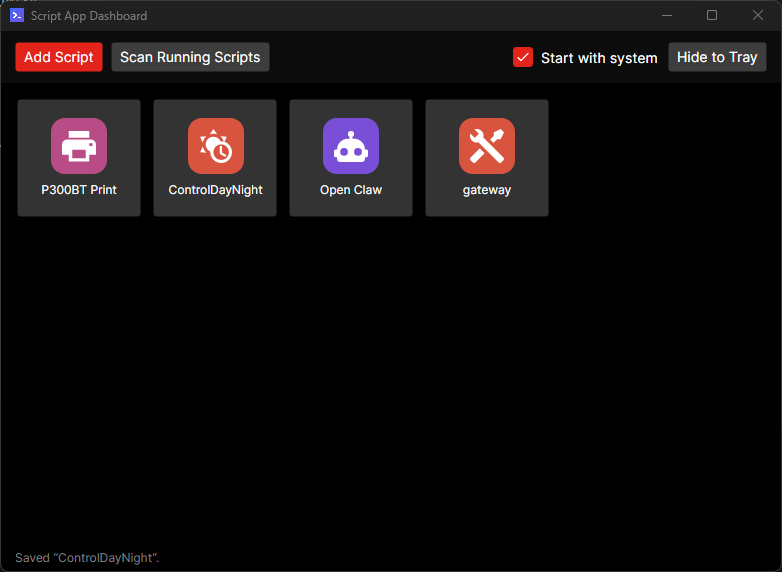
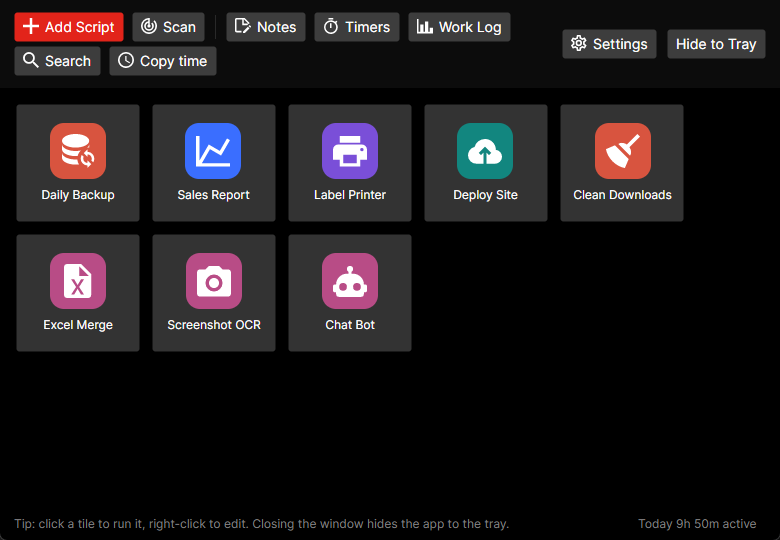
Update README with screenshots of every feature; allow a custom data folder
- README: sections and fresh screenshots for the visual note editor, interval
  timers and pop-ups, work log, combined search and timestamp settings, plus
  download instructions and where data is stored.
- SCRIPTAPPDASHBOARD_DATA environment variable overrides the data folder
  (tests, demos, portable use).
- CLAUDE.md: visual editor architecture and gotchas, demo-data testing.
- Notes button tooltip no longer says "HTML note".

diff --git a/Services/ConfigService.cs b/Services/ConfigService.cs
@@ -9,9 +9,11 @@ public static class ConfigService
 {
     private static readonly JsonSerializerOptions JsonOptions = new() { WriteIndented = true };
 
-    public static string ConfigDir => Path.Combine(
-        Environment.GetFolderPath(Environment.SpecialFolder.ApplicationData),
-        "ScriptAppDashboard");
+    /// <summary>Where config, notes and the work log live. SCRIPTAPPDASHBOARD_DATA overrides it (tests, demos, portable use).</summary>
+    public static string ConfigDir =>
+        Environment.GetEnvironmentVariable("SCRIPTAPPDASHBOARD_DATA") is { Length: > 0 } custom
+            ? custom
+            : Path.Combine(Environment.GetFolderPath(Environment.SpecialFolder.ApplicationData), "ScriptAppDashboard");
 
     private static string ConfigFile => Path.Combine(ConfigDir, "config.json");
 

diff --git a/README.md b/README.md
@@ -1,26 +1,91 @@
 # Script App Dashboard
 
-A small cross-platform (Windows / macOS) desktop launcher for all your Python tools, shell scripts and utilities — so you never have to hunt for the right folder again. Built with .NET 8 and Avalonia UI.
-
-## Screenshots
-
-**Dashboard — every script is a clickable tile:**
+A small cross-platform (Windows / macOS) desktop app for the people who live in scripts. It launches all your Python tools, shell scripts and utilities from one dashboard, and it also keeps quick notes, runs interval timers and logs where your working time goes. Built with .NET 8 and Avalonia UI.
 
 ![Script App Dashboard main window](docs/images/screenshotApp.png)
 
-**Scan Running Scripts — pick up tools that are already running and add them with one click:**
+## Features
+
+### Dashboard
+
+- **Tile dashboard:** every script is a clickable tile. Click to run; right-click to Run, Edit, Open Containing Folder or Remove.
+- **Custom icon, path and parameters:** each tile has a name, script path, command-line parameters, working directory and an optional icon. Pick one of 7,000+ searchable **Material Design Icons** (Apache 2.0, via the MIT-licensed `Material.Icons.Avalonia` package) or use your own .png / .jpg / .ico. Without an icon, a coloured initials tile is generated.
+- **Interpreter support:** detected from the extension (`.py`, `.ps1`, `.sh`, `.js`, `.bat`/`.cmd`, `.exe`). You can also pick one explicitly, including a *custom command* such as a venv's `python.exe -u`.
+- **Scan running scripts and apps:** finds scripts that are already running (python, node, powershell, bash, …) and open apps, and adds them to the dashboard with one click, parameters included.
+- **Hide to tray:** closing the window hides the app to the system tray or menu bar. The tray menu lists your scripts, so you can launch them without opening the window.
+- **Start with the system:** one checkbox registers auto-start. It uses the `HKCU\...\Run` registry key on Windows and a `~/Library/LaunchAgents` plist on macOS. The app starts hidden in the tray (`--minimized`).
+- **Keep console open:** an optional per-script setting. It wraps the run in `cmd /k` on Windows, or a Terminal `.command` file on macOS, so you can read the output after the script finishes.
 
 ![Scan running scripts window](docs/images/screenshotScanRunningScripts.png)
 
-## Features
+### Notes with a visual editor
 
-- **Tile dashboard** — every script is a clickable tile. Click to run, right-click to Run / Edit / Open Containing Folder / Remove.
-- **Custom icon, path & parameters** — each tile has a name, script path, command-line parameters, working directory and an optional icon: pick one from the built-in **Material Design Icons** library (7,000+ searchable icons, Apache 2.0, via the MIT-licensed `Material.Icons.Avalonia` package) or use your own image file (.png / .jpg / .ico). Without an icon, a colored initials tile is generated.
-- **Interpreter support** — auto-detects from the extension (`.py`, `.ps1`, `.sh`, `.js`, `.bat`/`.cmd`, `.exe`), or pick one explicitly, including a *custom command* (e.g. a venv's `python.exe -u`).
-- **Scan running scripts** — finds script processes already running (python, node, powershell, bash, …) and lets you add them to the dashboard with one click, parameters included.
-- **Hide to tray** — closing the window hides the app to the system tray / menu bar. The tray menu also lists your scripts for instant launching without opening the window.
-- **Start with system** — one checkbox registers auto-start (Windows: `HKCU\...\Run` registry key; macOS: `~/Library/LaunchAgents` plist). It starts hidden in the tray (`--minimized`).
-- **Keep console open** — optional per script: wraps the run in `cmd /k` (Windows) or a Terminal `.command` (macOS) so you can read the output after the script finishes.
+Write notes the way you would in a word processor. Headings, **bold**, *italic*, links, lists and code show formatted as you type. Only the line you are editing shows its formatting marks, Obsidian-style, so you can still fix them by hand.
+
+![Notes window with the visual editor](docs/images/screenshotNotes.png)
+
+- **Toolbar:**
+  - Bold (Ctrl+B), Italic (Ctrl+I), Link (Ctrl+K) and inline code.
+  - Headings (click H again for a smaller one), quote, bulleted and numbered lists.
+  - **Time bullets:** each new item is stamped with the current date and time when you press Enter. Handy for a running work log.
+- **Markdown shortcuts at the start of a line:**
+  - `- ` for a bullet and `1. ` for a numbered item.
+  - `# ` / `## ` / `### ` for headings.
+  - `> ` for a quote, ```` ``` ```` for a code block and `---` for a divider.
+- **Keyboard:**
+  - Enter continues a list, and Enter on an empty item ends it.
+  - Tab / Shift+Tab indents and outdents list items.
+  - Backspace at the start of a line joins it to the line above.
+  - The arrow keys move between lines.
+  - Pasting several lines creates one block per line, and list and heading prefixes are recognised.
+- **Links:** Ctrl+click a link to open it.
+- **Edit HTML:** notes are stored as clean HTML. **Edit HTML** shows the source; anything the visual editor can't represent, such as tables or styled elements, is kept as an HTML block.
+- **Search and tags:** search by title, tags or text. Ctrl+S saves, Ctrl+N starts a new note, Ctrl+F searches.
+- **Export:** export one note or all matching notes as Markdown, export a note as a standalone HTML file, or preview it in the browser.
+
+The paragraph being edited shows its formatting marks:
+
+![Editing a paragraph shows its formatting marks](docs/images/screenshotNotesEditing.png)
+
+### Interval timers
+
+Repeat a reminder every 30 seconds to every few hours. A timer can:
+
+- beep,
+- run a shell command, or
+- send a prompt to an AI command-line tool that reads stdin, such as `claude -p`.
+
+A small pop-up in the screen corner shows your message and the output. It doesn't steal focus and closes by itself. You can pause all timers from the window or the tray for 30 minutes, 1 hour, 2 hours, until tomorrow morning or until you resume. Templates get you started with an eye break, a stretch reminder, an AI check-in or a scheduled command.
+
+![Interval timers](docs/images/screenshotTimers.png)
+
+![Timer pop-up](docs/images/screenshotToast.png)
+
+### Work log
+
+When turned on, the app records which window you work in about every 30 seconds:
+
+- the app and window title, such as the browser tab or the file in your editor,
+- scripts you launch from the dashboard,
+- timer runs and new notes.
+
+Idle time (5 minutes without input by default) and the lock screen are not counted. The Work Log window shows time per app, per window or browser tab, per hour of the day and per day for today, the last 7 days or the last 30 days. You can limit it to your working hours (for example 09:00–18:00, Mon–Fri; night shifts are supported) and copy the summary as Markdown. The status bar shows today's active time.
+
+![Work log](docs/images/screenshotWorkLog.png)
+
+Everything stays on your machine, in daily JSON-lines files.
+
+### Search everything
+
+One search box (Ctrl+F in the main window) looks through notes and the work log together. Results are grouped by day, with the time spent in matching windows.
+
+![Search notes and the work log](docs/images/screenshotSearch.png)
+
+### Copy time
+
+Many tasks need the current time pasted into a file or a ticket. **Copy time** in the main window or the tray copies it in your chosen format. Use a .NET date format or a template such as `[{yyyy-MM-dd HH:mm}]`, and pick a preset from Settings. The same format is used by the **Time** button in notes, and the button can be switched off.
+
+![Timestamp settings](docs/images/screenshotSettingsTimestamp.png)
 
 ## Run
 
@@ -39,32 +104,51 @@ dotnet publish -c Release -r osx-arm64 --self-contained
 dotnet publish -c Release -r osx-x64 --self-contained
 ```
 
-The output lands in `bin/Release/net8.0/<rid>/publish/`. Tip: enable "Start with system" **after** moving the app to its final location, since the registered path is the running executable's path.
+The output lands in `bin/Release/net8.0/<rid>/publish/`. Turn on "Start with the system" only **after** moving the app to its final location, because the registered path is the path of the running executable.
 
-## CI & automated releases
+## Download
 
-GitHub Actions is set up in `.github/workflows/`:
+Ready-made builds for Windows (x64) and macOS (Intel and Apple Silicon) are on the [Releases](https://github.com/leybme/ScriptAppDashboard/releases) page.
 
-- **CI** (`ci.yml`) — every push to `main` and every pull request builds the app in Release mode on both Windows and macOS runners.
-- **Release** (`release.yml`) — pushing a version tag builds self-contained single-file binaries for `win-x64`, `osx-x64` and `osx-arm64`, zips them, and publishes a GitHub Release with auto-generated notes and the three zips attached. The tag (minus the `v`) becomes the assembly version.
+- Unzip and run `ScriptAppDashboard.exe` (Windows) or `ScriptAppDashboard` (macOS). No installation is needed.
+- The binaries are unsigned:
+  - On Windows, SmartScreen may warn the first time. Choose "More info → Run anyway".
+  - On macOS, Gatekeeper warns on first launch. Right-click → Open, or run `xattr -d com.apple.quarantine ScriptAppDashboard`.
+
+## CI and automated releases
+
+GitHub Actions workflows live in `.github/workflows/`:
+
+- **CI** (`ci.yml`): every push to `main` and every pull request builds the app in Release mode on Windows and macOS runners.
+- **Release** (`release.yml`): pushing a version tag builds self-contained single-file binaries for `win-x64`, `osx-x64` and `osx-arm64`. It zips them and publishes a GitHub Release with auto-generated notes and the three zips attached. The tag, minus the `v`, becomes the assembly version.
 
 To cut a release:
 
 ```
-git tag v1.0.0
-git push origin v1.0.0
+git tag v1.2.0
+git push origin v1.2.0
 ```
 
-Notes:
+The pull request template in `.github/PULL_REQUEST_TEMPLATE.md` pre-fills every new PR with a summary, test and checklist structure.
 
-- Binaries are unsigned. On macOS, Gatekeeper will warn on first launch — right-click → Open, or run `xattr -d com.apple.quarantine ScriptAppDashboard`.
-- The pull request template lives at `.github/PULL_REQUEST_TEMPLATE.md` and pre-fills every new PR with a summary/test/checklist structure.
+## Where your data lives
+
+- **Location:** settings, scripts, timers, notes and the work log are stored in:
+  - `%APPDATA%\ScriptAppDashboard` on Windows,
+  - `~/Library/Application Support/ScriptAppDashboard` on macOS.
+
+  Settings → General shows the folder and has an **Open folder** button.
+- **Files in that folder:**
+  - `config.json`: settings, scripts and timers.
+  - `notes.json`: notes.
+  - `worklog/yyyy-MM-dd.jsonl`: the work log, one JSON object per line.
+- **Using another folder:** set the `SCRIPTAPPDASHBOARD_DATA` environment variable to keep the data elsewhere, for a portable install or a demo.
 
 ## Notes
 
-- Config is stored at `%APPDATA%\ScriptAppDashboard\config.json` (Windows) or `~/Library/Application Support/ScriptAppDashboard/config.json` (macOS).
-- Interpreters are resolved from `PATH` (`python`, `node`, `bash`, …). If a script fails to launch, set an explicit interpreter or a custom command in its Edit dialog.
-- The process scan uses `Get-CimInstance Win32_Process` on Windows and `ps -axo pid,args` on macOS — no elevated rights needed for your own processes.
+- Interpreters are found on `PATH` (`python`, `node`, `bash`, …). If a script fails to launch, set an explicit interpreter or a custom command in its Edit dialog.
+- The process scan uses `Get-CimInstance Win32_Process` on Windows and `ps -axo pid,args` on macOS. It doesn't need elevated rights for your own processes.
+- Window-title logging uses Win32 APIs, so the work log records foreground windows on Windows only. The rest of the app works on both platforms.
 
 ## Author
 

diff --git a/CLAUDE.md b/CLAUDE.md
@@ -25,16 +25,18 @@ dotnet publish -c Release -r win-x64 --self-contained -p:PublishSingleFile=true
 | `Services/WorkLogService.cs` | Records work to daily JSONL files in `worklog/` and analyses them (`Summarize`, `Search`, `TodayActiveSeconds`, `ToMarkdown`). |
 | `Services/WorkHours.cs` | Working-hours rules (wraps past midnight for night shifts). |
 | `Services/TimerService.cs` | 1-second ticker that runs the timers (beep / shell command / AI CLI via stdin). Supports pause and resume (`TimersPausedUntil` in the config). |
-| `Services/NotesService.cs` | Reads and writes `notes.json`. Also holds search, `RenderLists` (list lines → HTML for preview), `HtmlToMarkdown` / `ToMarkdown` (export). |
+| `Services/NotesService.cs` | Reads and writes `notes.json`. Also holds search, `HtmlToMarkdown` / `ToMarkdown` / `ToHtml` (export). |
+| `Services/NoteDocument.cs` | Note body model for the visual editor: `Parse` (HTML, incl. old `• `/`1. `/`◷` plain lines → `NoteBlock`s), `ToHtml`, `ToMarkdown`, and the inline markup (`**b**`, `*i*`, `` `c` ``, `[t](u)`) ↔ HTML conversion. |
 | `Services/TimestampService.cs` | Timestamp formats: .NET date formats, or a template whose `{…}` parts are formatted (InvariantCulture). |
+| `Views/NoteEditor.axaml(.cs)` | The WYSIWYG note editor (a UserControl): one row per block, each with a rendered `TextBlock` and a `TextBox` that is shown only while that block is edited. |
 | `Views/*` | One window per feature. `ToastWindow.cs` is the corner pop-up, built in code only. `UiHelpers.cs` holds `Dialogs.Confirm`. |
 
 ## Data files
 
-All under `%APPDATA%\ScriptAppDashboard`:
+All under `%APPDATA%\ScriptAppDashboard`, or the folder in the `SCRIPTAPPDASHBOARD_DATA` environment variable:
 
 - `config.json`: scripts, timers and settings.
-- `notes.json`: notes. Written atomically via a `.tmp` file then a move; an unreadable file is first backed up as `.bad`.
+- `notes.json`: notes. The body is HTML; the visual editor writes one block per line (`<p>`, `<h1-6>`, `<ul>`/`<ol>`, `<ul class="timed">` with `<span class="t">stamp</span>`, `<blockquote>`, `<pre><code>`, `<hr>`). Written atomically via a `.tmp` file then a move; an unreadable file is first backed up as `.bad`.
 - `worklog/yyyy-MM-dd.jsonl`: one JSON object per line, UTF-8 without a BOM. The `k` field is:
   - `s`: foreground sample (`app`, `title`, `sec`)
   - `o`: open windows + running scripts snapshot
@@ -67,7 +69,14 @@ All under `%APPDATA%\ScriptAppDashboard`:
 - **XAML initialisation order:** `SelectionChanged` / `TextChanged` handlers declared in XAML fire while `InitializeComponent` is still running, before later controls exist. Null-guard them (see `ApplyActionVisibility`, `UpdatePreview`).
 - **Never set `Foreground = null`** to mean "theme default": it makes the text invisible. Only assign it when overriding.
 - **Notes dirty state:** compare against a `_baseline` snapshot; don't use a flag set in `TextChanged`, because it fires late for programmatic edits.
-- **Note editor Enter key:** list continuation (bullets, numbers, `◷ time · text` time bullets) uses a **tunnel** `KeyDown` handler on `HtmlBox`, so it runs before the TextBox handles Enter.
+- **Note editor keys:** Enter / Backspace / Delete / arrows / Tab are handled by **tunnel** `KeyDown` handlers (on each block's TextBox in `NoteEditor`, and on `HtmlBox` in the HTML view), so they run before the TextBox handles them.
+- **Visual note editor:**
+  - Change a block's kind with `ApplyKind` (restyles in place) rather than rebuilding the row, so focus and undo survive.
+  - Toolbar buttons are `Focusable=False` (style in `NotesWindow.axaml`), so the caret and selection stay in the block. A TextBox clears its selection when it loses focus.
+  - `SetText` writes `Block.Text` before `TextBox.Text`, so the late `TextChanged` sees no change.
+  - Markdown shortcuts (`- `, `# `, …) are applied through `Dispatcher.UIThread.Post`, not inside `TextChanged`.
+  - Anything the editor can't represent (tables, elements with `style=`, full documents, comments) becomes a `Raw` block and is written back verbatim.
+- **Dirty state across views:** `NotesWindow.CurrentHtml()` is the editor's HTML or the HTML source. Switching views re-formats it, so the baseline is reset when the note wasn't dirty.
 - **Timer rescheduling:** `TimerService.Reschedule(id)` restarts one timer only. `Resume()` clears every countdown on purpose, so timers don't all fire at once.
 - **Work-log time accounting:**
   - Samples skip idle time (`GetLastInputInfo`) and the lock screen (`LockApp`).
@@ -77,13 +86,15 @@ All under `%APPDATA%\ScriptAppDashboard`:
 ## Testing (no unit-test project)
 
 - **Logic:** load the built DLL from **pwsh 7**. Windows PowerShell 5.1 can't load net8 assemblies.
-  `Add-Type -Path bin/Debug/net8.0/ScriptAppDashboard.dll`, then call static methods such as `NotesService.HtmlToMarkdown` or `new WorkHours(config).Contains(...)`.
+  `Add-Type -Path bin/Debug/net8.0/ScriptAppDashboard.dll`, then call static methods such as `NotesService.HtmlToMarkdown`, `NoteDocument.Parse` / `ToHtml` (check that the HTML round-trips) or `new WorkHours(config).Contains(...)`.
 - **UI:** run the debug exe and drive it with UIAutomation from pwsh:
   - Find windows by title and buttons by AutomationProperties.Name. `x:Name` becomes the AutomationId.
   - Set text with `ValuePattern`.
   - Take screenshots with `System.Drawing` `CopyFromScreen`.
   - Avalonia `MenuItem`s in flyouts don't respond to `InvokePattern`; click them with the real mouse (`SetCursorPos` + `mouse_event`).
   - Native dialogs (save file) need `SendKeys`.
+- **Demo data / screenshots:** start the exe with `SCRIPTAPPDASHBOARD_DATA` pointing at a scratch folder holding a generated `config.json`, `notes.json` and `worklog/`. Never put the user's real notes or window titles in README images. Check that the captured window really was in front (`GetForegroundWindow`) before saving the image.
+- **ValuePattern caret:** after `SetValue` the caret is at 0, so send `{END}` before `{ENTER}` when testing the note editor.
 - **Don't damage the user's data:**
   - Back up `config.json` before injecting test timers or settings, and restore it afterwards.
   - Remove only the test lines you added to today's `worklog/*.jsonl`; it also holds the user's real activity.
